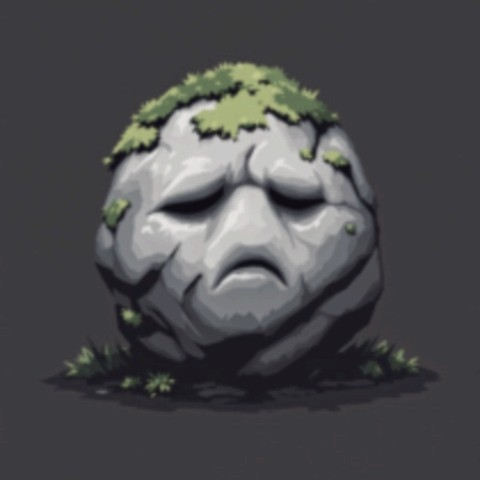
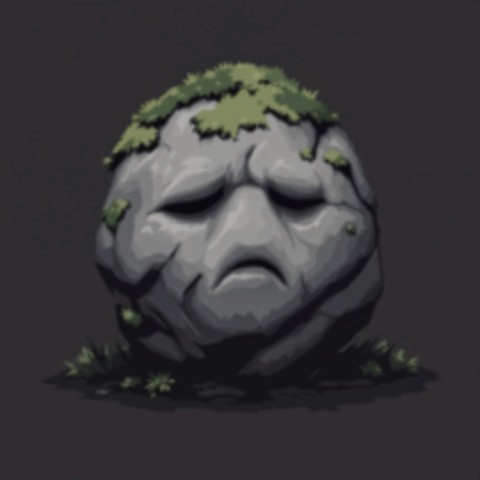
Troll rockface #4: darken + drop the loose bottom-left fragment
Owner: still a touch light, and a stray bit in the bottom-left corner.
- Darken to bright=0.85 (center grey ~153 -> ~115) so it sits deeper with
  rockMossy/rockBasalt instead of standing out.
- Cutout now keeps only the largest/central blob, so disconnected debris
  (the loose grass-skirt fragment) is dropped instead of floating beside it.
Bottom feather (start=0.70) unchanged.

Claude-Session: https://claude.ai/code/session_01CgGUkw5aUKtUAGfWeZXo2s

diff --git a/dist/artifact.html b/dist/artifact.html
@@ -1484,8 +1484,8 @@
 <div id="ui"></div>
 <script>
 'use strict';
-window.__ASSET_VER = "dau2a7";
-globalThis.__BUILD__ = "local 07-24 21:17";
+window.__ASSET_VER = "19gl5ou";
+globalThis.__BUILD__ = "local 07-25 07:31";
 
 // ===================== src/config.js =====================
 const __m_config = (function () {

diff --git a/dist/index.html b/dist/index.html
@@ -1490,8 +1490,8 @@
 <div id="ui"></div>
 <script>
 'use strict';
-window.__ASSET_VER = "dau2a7";
-globalThis.__BUILD__ = "local 07-24 21:17";
+window.__ASSET_VER = "19gl5ou";
+globalThis.__BUILD__ = "local 07-25 07:31";
 
 // ===================== src/config.js =====================
 const __m_config = (function () {

diff --git a/scripts/gen_troll_rock2.py b/scripts/gen_troll_rock2.py
@@ -104,10 +104,26 @@ def cutout(im, dest, T=None, pad=8, feather=1.2, close=9, margin=22):
     seeds=[(1,1),(w-2,1),(1,h-2),(w-2,h-2),(w//2,1),(w//2,h-2),(1,h//2),(w-2,h//2)]
     for s in seeds:
         if wl[s[0],s[1]]==0: ImageDraw.floodfill(work,s,128,thresh=0)
-    alpha=Image.new("L",(w,h),255); ap=alpha.load(); wl=work.load()
-    for y in range(h):
-        for x in range(w):
-            if wl[x,y]==128: ap[x,y]=0
+    # SOLID = rock + its interior holes (everything the border-flood did NOT reach)
+    solid = Image.eval(work, lambda v: 0 if v == 128 else 255)
+    # keep ONLY the largest/central blob — drops disconnected debris (e.g. loose grass-skirt
+    # fragments) that would otherwise float beside the rock.
+    sp = solid.load(); sx=sy=cnt=0
+    for y in range(0,h,3):
+        for x in range(0,w,3):
+            if sp[x,y]==255: sx+=x; sy+=y; cnt+=1
+    if cnt:
+        cx,cy = sx//cnt, sy//cnt
+        if sp[cx,cy]!=255:                       # snap seed onto the blob if centroid lands in a hole
+            best=None
+            for yy in range(0,h,2):
+                for xx in range(0,w,2):
+                    if sp[xx,yy]==255:
+                        d=(xx-cx)**2+(yy-cy)**2
+                        if best is None or d<best[0]: best=(d,xx,yy)
+            if best: cx,cy=best[1],best[2]
+        ImageDraw.floodfill(solid,(cx,cy),128,thresh=0)   # main blob -> 128
+    alpha = Image.eval(solid, lambda v: 255 if v==128 else 0)
     alpha=alpha.filter(ImageFilter.GaussianBlur(feather))
     out=im.convert("RGBA"); out.putalpha(alpha)
     bb=out.getbbox()
